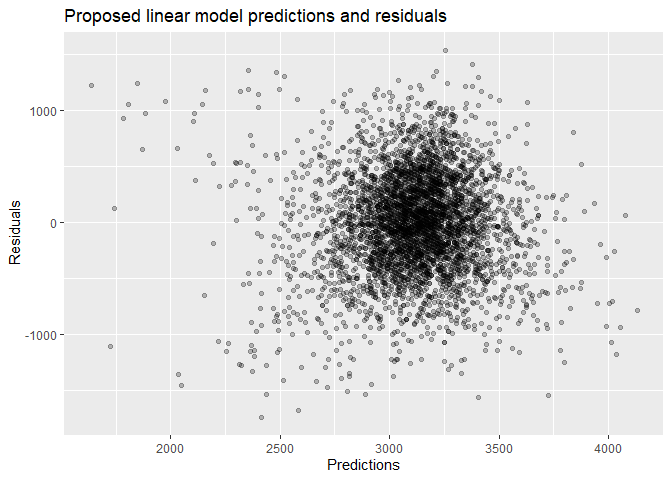
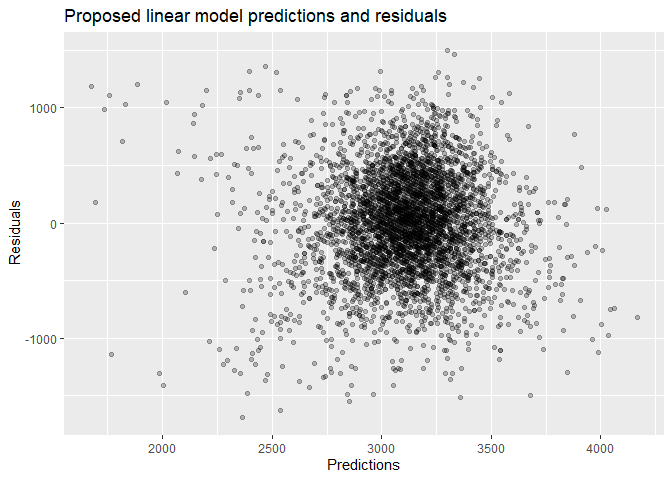
Finished problem 3: cross-validation and plot

diff --git a/p8105_hw6_geg2145.md b/p8105_hw6_geg2145.md
@@ -377,10 +377,12 @@ with `bwt`.**
 | wtgain   | 0.25 |
 
 **From these, we will use `delwt`, `gaweeks` and `wtgain`, to avoid
-using variables about the baby’s features to predict its birthweight.**
+using variables about the baby’s features to predict its birthweight. I
+will also use the baby’s sex, since that is known well before they are
+born**
 
 ``` r
-my_fit = lm(bwt ~ delwt + gaweeks + wtgain, data = df_birthweight)
+my_fit = lm(bwt ~ delwt + gaweeks + wtgain + babysex, data = df_birthweight)
 
 df_birthweight %>%
   modelr::add_residuals(my_fit) %>%
@@ -411,6 +413,43 @@ Compare your model to two others:
 
 Make this comparison in terms of the cross-validated prediction error;
 use `crossv_mc` and functions in `purrr` as appropriate.
+
+``` r
+modelr::crossv_mc(df_birthweight, 100) %>%
+  mutate(
+    my_mod = map(train, \(df) lm(bwt ~ delwt + gaweeks + 
+                                   wtgain + babysex, data = df)),
+    
+    simple_mod = map(train, \(df) lm(bwt ~ blength + gaweeks, data = df)),
+    
+    int_mod =  map(train, \(df) lm(bwt ~ bhead + blength + babysex +
+                                     bhead*blength + bhead*babysex + 
+                                     blength*babysex +
+                                     bhead*blength*babysex, data = df))) %>%
+  mutate(
+    rmse_my_mod= map2_dbl(my_mod, test, \(mod, df) rmse(model = mod, 
+                                                        data = df)),
+    rmse_simple = map2_dbl(simple_mod, test, \(mod, df) rmse(model = mod, 
+                                                             data = df)),
+    rmse_int = map2_dbl(int_mod, test, \(mod, df) rmse(model = mod, 
+                                                       data = df))) %>%
+  select(starts_with("rmse")) %>%
+  pivot_longer(
+    everything(),
+    names_to = "model", 
+    values_to = "rmse",
+    names_prefix = "rmse_") %>%
+  mutate(model = fct_inorder(model)) %>%
+  ggplot(aes(x = model, y = rmse)) + geom_violin() + 
+  labs(title = "RMSE of models predicting birth weight")
+```
+
+![](p8105_hw6_geg2145_files/figure-gfm/p3_cv-1.png)<!-- -->
+
+**In this plot, we see that our model had the highest RMSE, which makes
+sense since it didn’t use any of the baby’s features at birth to predict
+its birth weight. The model with interaction terms is the most flexible
+one, and indeed the one with lowest RMSE.**
 
 Note that although we expect your model to be reasonable, model building
 itself is not a main idea of the course and we don’t necessarily expect
